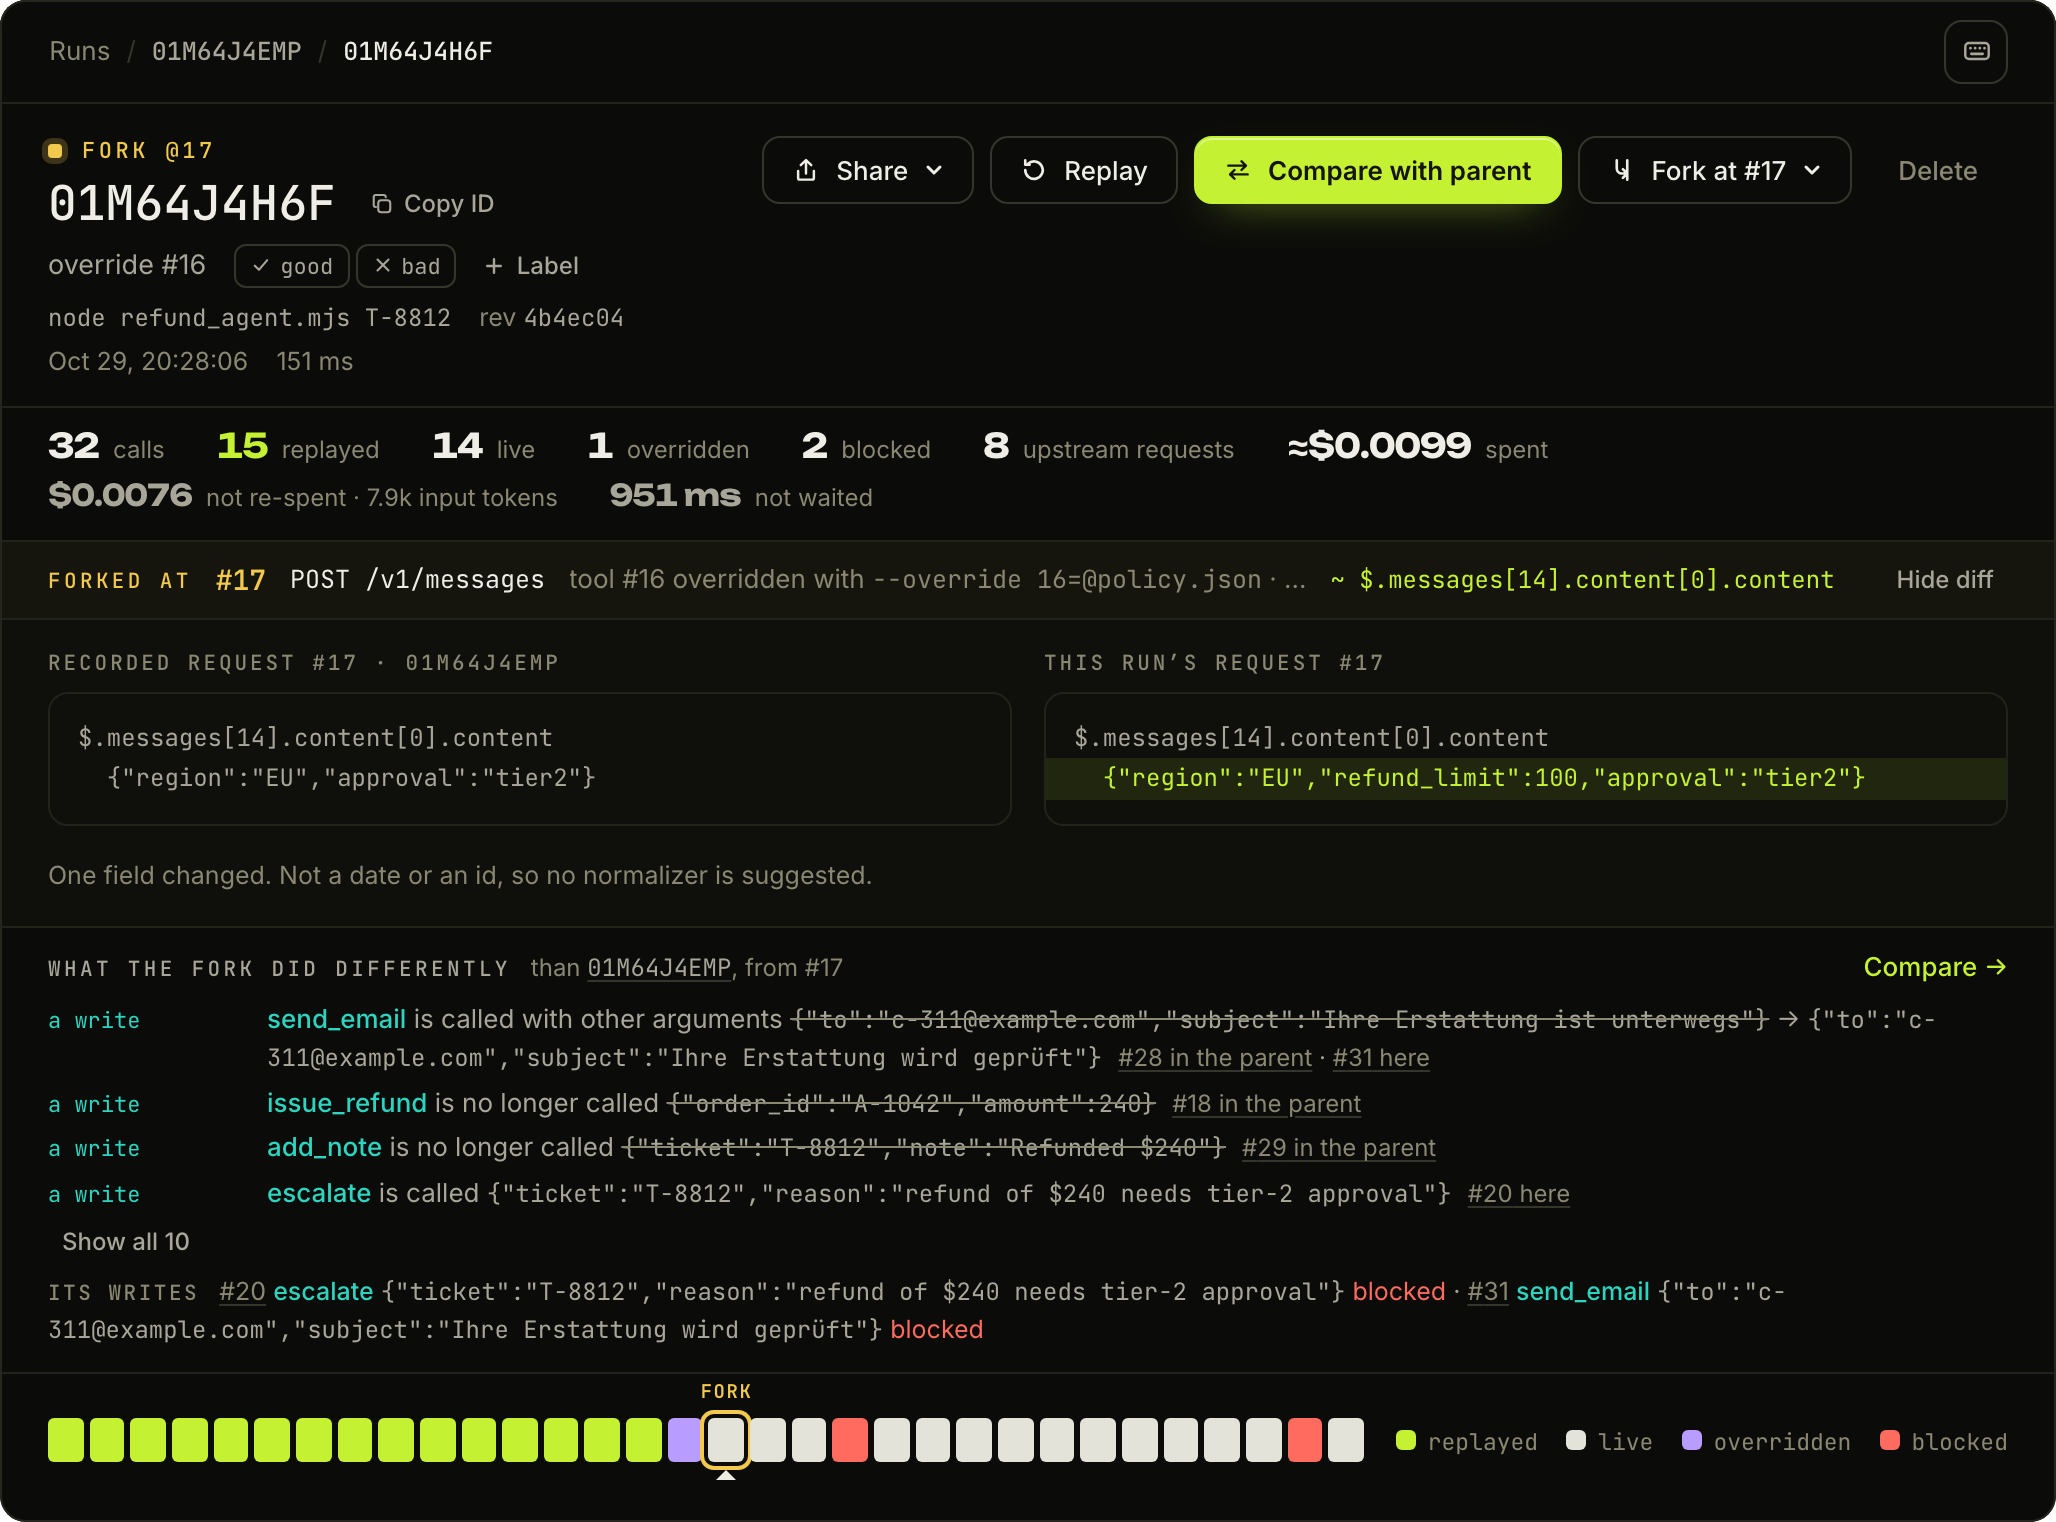
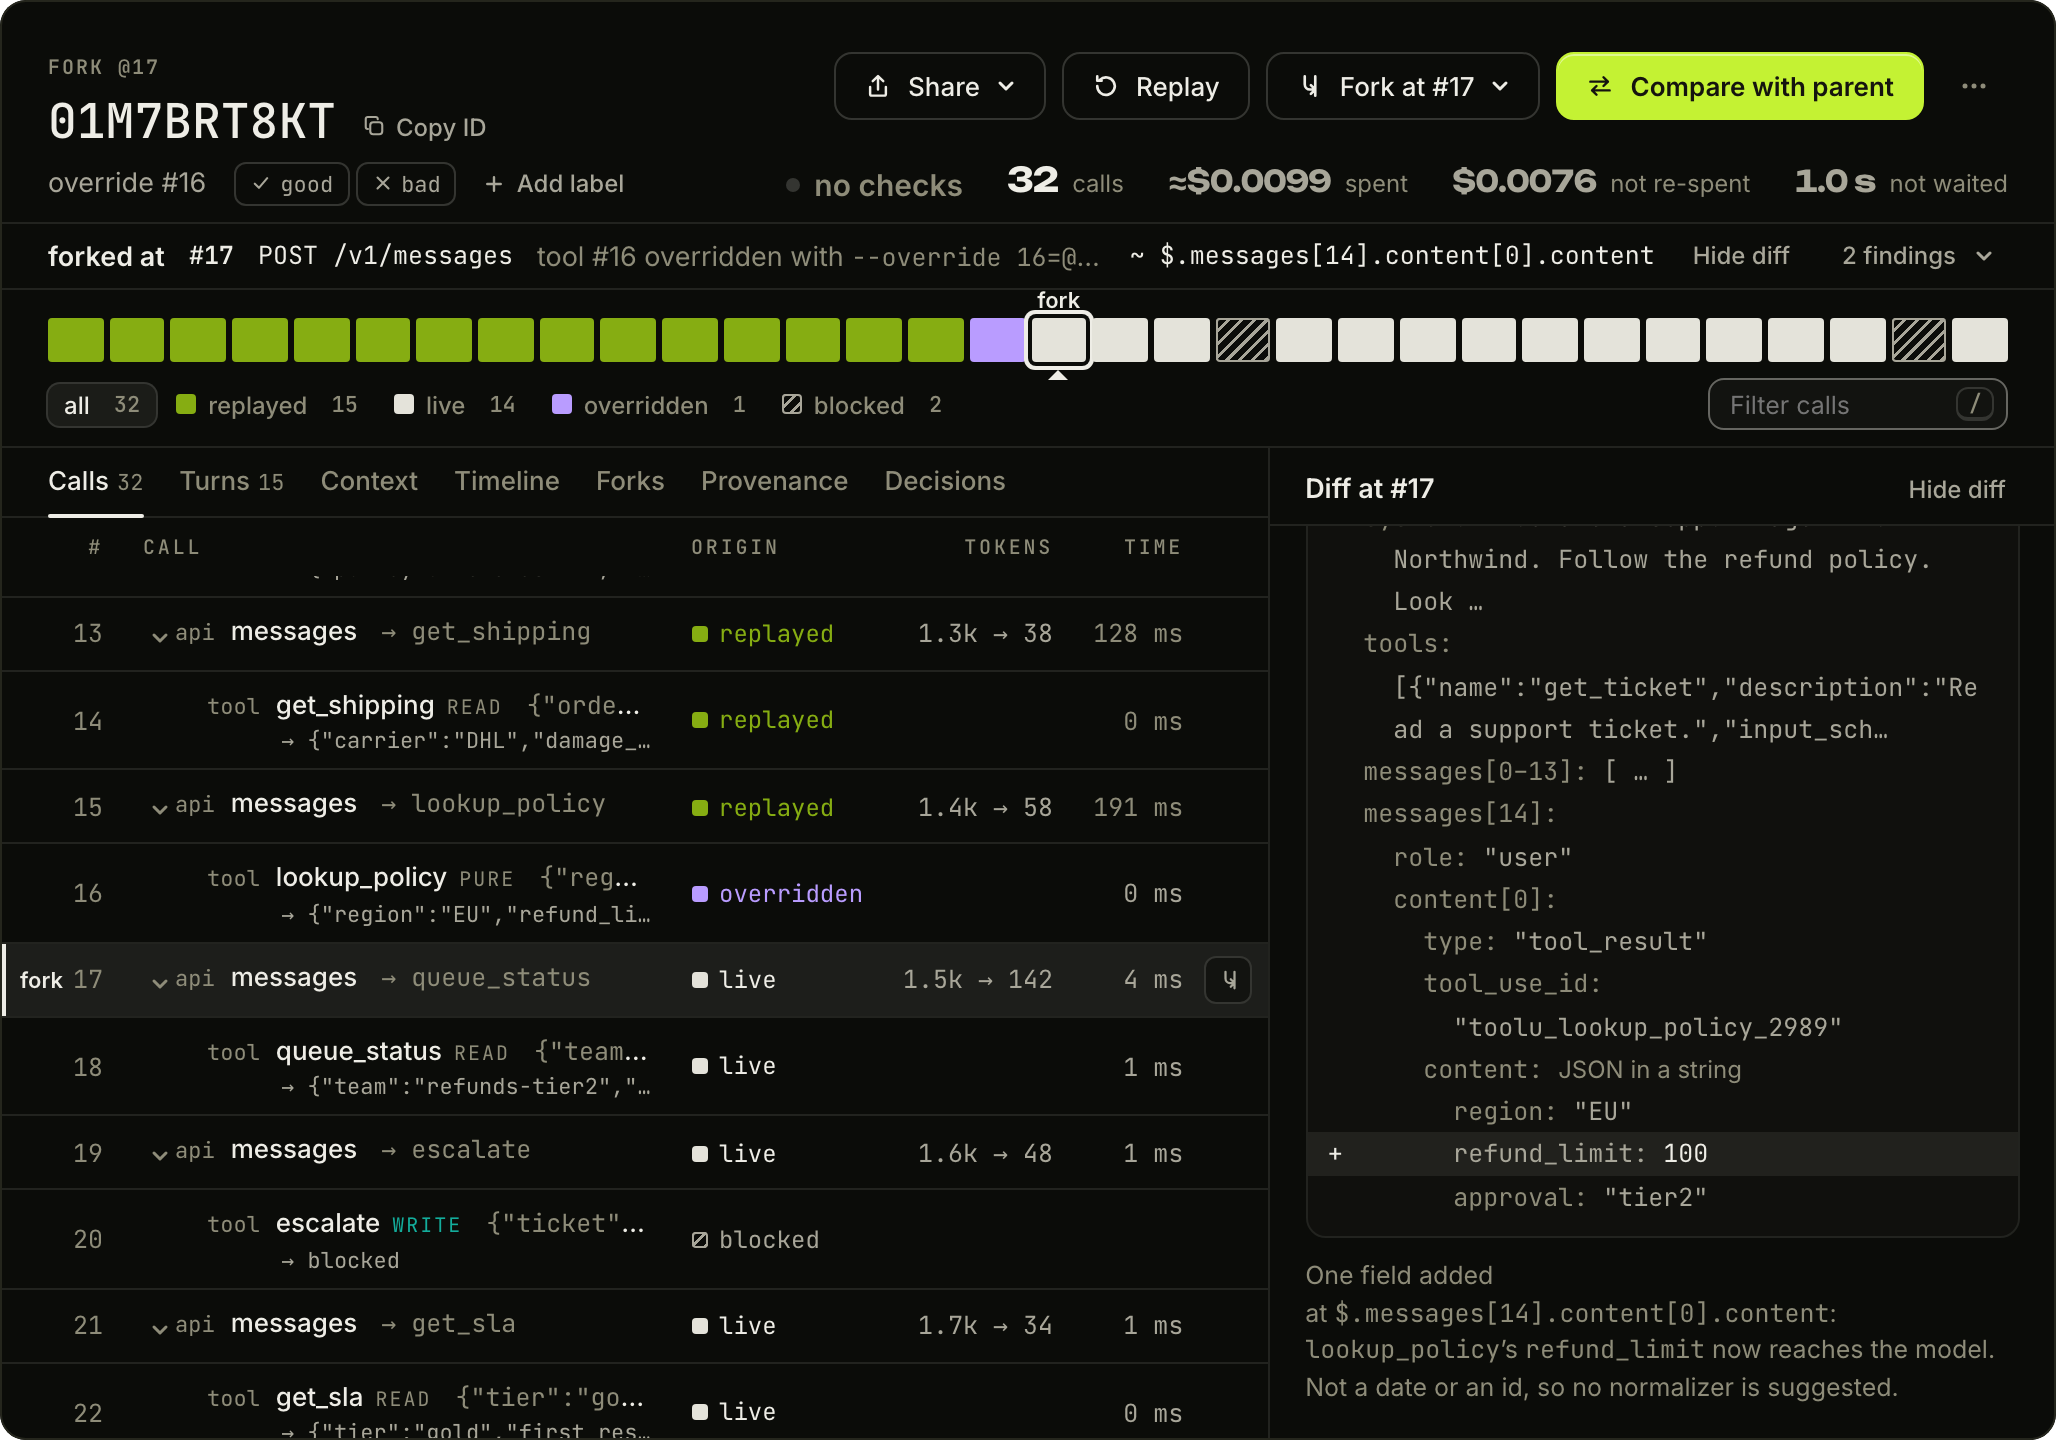
Take the README's dashboard pictures again from the dashboard the port left, framed for its layout
The top bar now runs over the sidebar, so a desktop picture starts under it rather than cutting its
crumbs at the sidebar's edge. The fork's diff opens beside the calls on a desktop: that picture is
the whole page, its diff brought to the refund_limit the override added. A narrow run page opens
scrolled to its call and lays its strip out apart, so the narrow fork starts at the top and ends
under the strip's key. Its alt text says what the new picture shows.

diff --git a/README.md b/README.md
@@ -264,7 +264,7 @@ Each task, with the command or page that does it:
   <picture>
     <source media="(max-width: 600px)" srcset=".github/assets/readme/dashboard-fork-phone.png" width="390">
     <source media="(max-width: 1279px)" srcset=".github/assets/readme/dashboard-fork-medium.png" width="640">
-    <img src=".github/assets/readme/dashboard-fork.png" alt="The Shadowlap dashboard on a fork of the second agent's refund run: forked at call 17 after the lookup_policy result was overridden, the request as recorded and as sent, what the fork did differently (the refund no longer issued, the case escalated instead), and a strip of calls replayed, overridden, live and blocked." width="880">
+    <img src=".github/assets/readme/dashboard-fork.png" alt="The Shadowlap dashboard on a fork of the second agent's refund run: forked at call 17 after lookup_policy's result was overridden with the EU policy, the calls after it escalating with the write blocked, and the request's diff, where refund_limit now reaches the model." width="880">
   </picture>
   <br>
   <sub>What if <code>lookup_policy</code> had returned the EU limit? The&nbsp;run&nbsp;forks&nbsp;at&nbsp;call&nbsp;17&nbsp;(<a href="scripts/readme-shots.mjs">source</a>).</sub>
